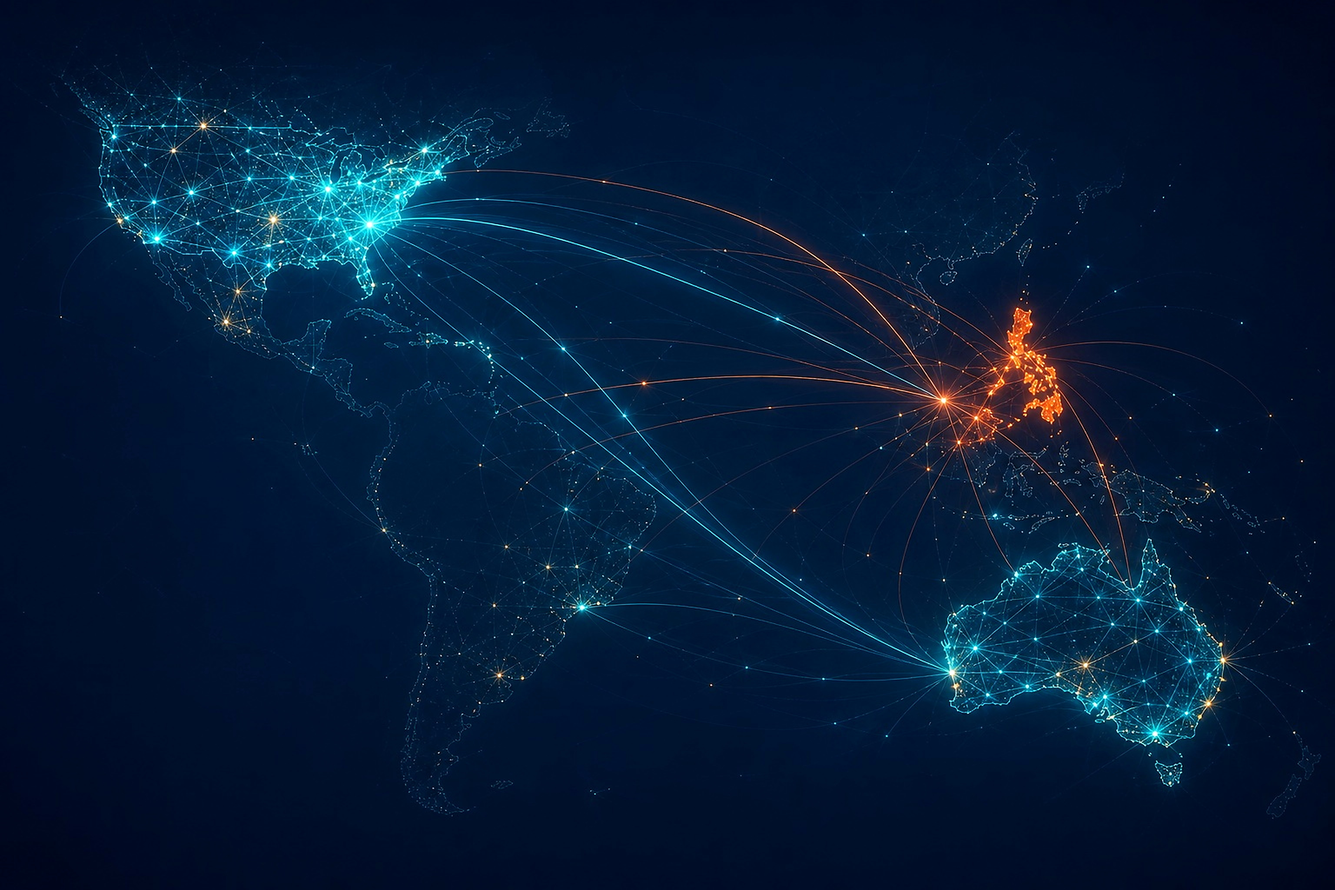
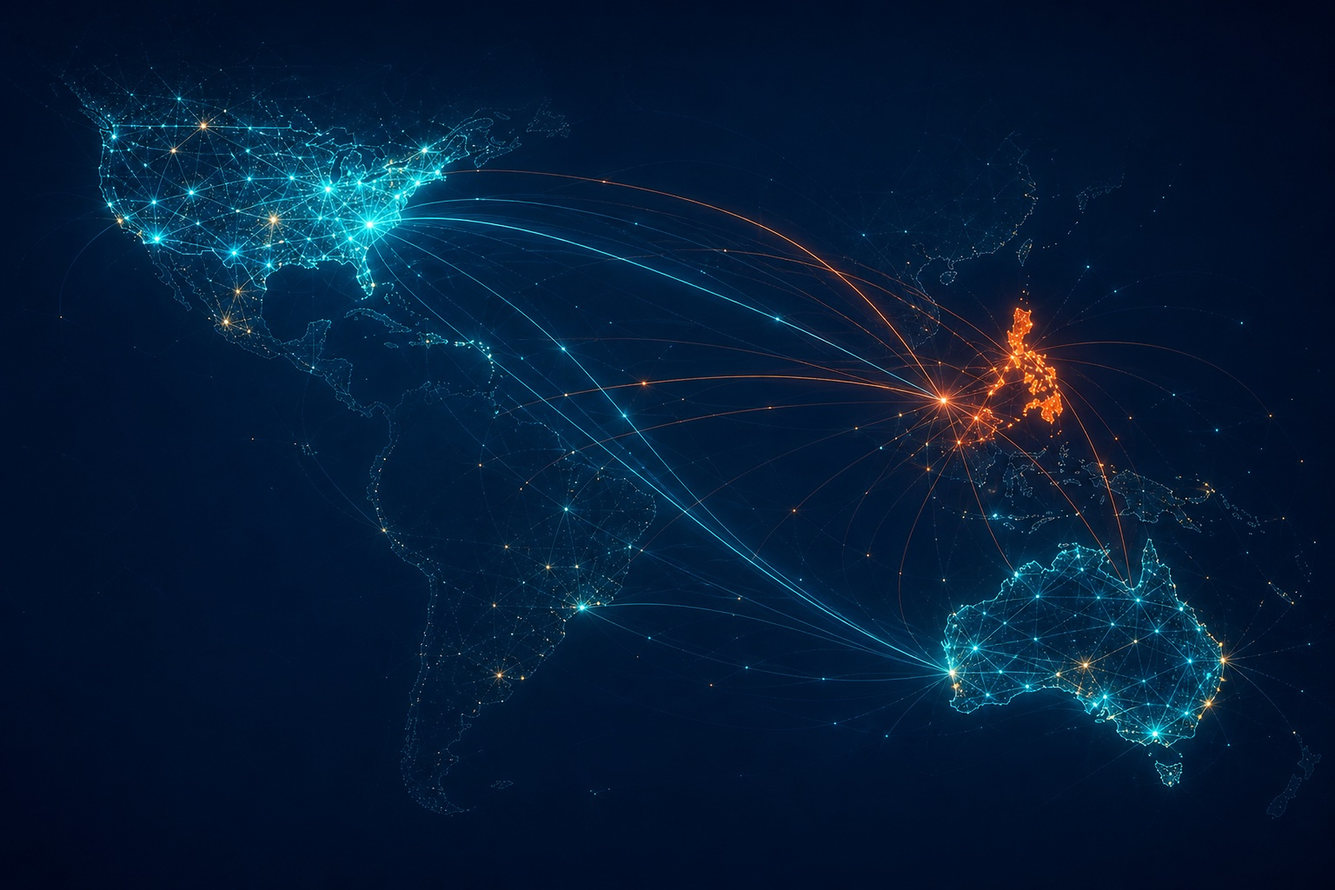
Unify hub map: shared crisp Map B, slight zoom-out.
Services and How it works share one HubMapHero, baseline 3072 Map B, and ~102% cover so framing and sharpness stay consistent.

diff --git a/vision/app/how-it-works/page.tsx b/vision/app/how-it-works/page.tsx
@@ -3,6 +3,7 @@ import Link from "next/link";
 import SiteNav from "../components/SiteNav";
 import SiteFooter from "../components/SiteFooter";
 import MarketGtm from "../components/MarketGtm";
+import HubMapHero from "../components/HubMapHero";
 import { HOW_STEP_ICONS } from "../components/MicroIcons";
 import type { MarketId } from "../../config/markets";
 import type { SiteSurface } from "../../config/site";
@@ -121,46 +122,32 @@ export default async function HowItWorksPage({
       <MarketGtm surface={surface} />
       <SiteNav tone="dark" market={surface} active="how" />
 
-      <header className={`micro-hero micro-hero--map micro-hero--${market}`}>
-        <div className="micro-hero-map" aria-hidden>
-          {/* eslint-disable-next-line @next/next/no-img-element */}
-          <img
-            src="/brand/hero-hub-map-b.jpg"
-            alt=""
-            width={3072}
-            height={2048}
-            decoding="async"
-            fetchPriority="high"
-          />
+      <HubMapHero market={market}>
+        <p className="micro-kicker">
+          {isAu ? "Australia" : "United States"} · Businesses · Philippines talent
+        </p>
+        <h1>
+          {isAu
+            ? "How hiring works for Australian businesses."
+            : "How hiring works with Virtual Coworker."}
+        </h1>
+        <p className="micro-lead">
+          {isAu
+            ? "Four steps. You keep ownership of who joins your team. We recruit, screen, and support dedicated Philippines staff who can work Australian business hours."
+            : "Four steps. You keep ownership of who joins your team. We recruit, screen, and support dedicated Philippines staff for US businesses."}
+        </p>
+        <div className="micro-actions">
+          <Link href={`${home}#gate`} className="micro-btn micro-btn-primary">
+            Start hiring
+          </Link>
+          <Link
+            href={`/services?market=${market}`}
+            className="micro-btn micro-btn-ghost"
+          >
+            Browse roles
+          </Link>
         </div>
-        <div className="micro-hero-veil" aria-hidden />
-        <div className="micro-hero-copy">
-          <p className="micro-kicker">
-            {isAu ? "Australia" : "United States"} · Businesses · Philippines talent
-          </p>
-          <h1>
-            {isAu
-              ? "How hiring works for Australian businesses."
-              : "How hiring works with Virtual Coworker."}
-          </h1>
-          <p className="micro-lead">
-            {isAu
-              ? "Four steps. You keep ownership of who joins your team. We recruit, screen, and support dedicated Philippines staff who can work Australian business hours."
-              : "Four steps. You keep ownership of who joins your team. We recruit, screen, and support dedicated Philippines staff for US businesses."}
-          </p>
-          <div className="micro-actions">
-            <Link href={`${home}#gate`} className="micro-btn micro-btn-primary">
-              Start hiring
-            </Link>
-            <Link
-              href={`/services?market=${market}`}
-              className="micro-btn micro-btn-ghost"
-            >
-              Browse roles
-            </Link>
-          </div>
-        </div>
-      </header>
+      </HubMapHero>
 
       <section className="micro-section">
         <div className="how-steps">

diff --git a/vision/app/services/page.tsx b/vision/app/services/page.tsx
@@ -3,6 +3,7 @@ import Link from "next/link";
 import SiteNav from "../components/SiteNav";
 import SiteFooter from "../components/SiteFooter";
 import MarketGtm from "../components/MarketGtm";
+import HubMapHero from "../components/HubMapHero";
 import { ServiceIcon } from "../components/MicroIcons";
 import { CATEGORY_SLUGS, CATEGORIES } from "../../config/categories";
 import type { MarketId } from "../../config/markets";
@@ -39,46 +40,32 @@ export default async function ServicesPage({
       <MarketGtm surface={surface} />
       <SiteNav tone="dark" market={surface} active="services" />
 
-      <header className={`micro-hero micro-hero--map micro-hero--${market}`}>
-        <div className="micro-hero-map" aria-hidden>
-          {/* eslint-disable-next-line @next/next/no-img-element */}
-          <img
-            src="/brand/hero-hub-map-b.jpg"
-            alt=""
-            width={3072}
-            height={2048}
-            decoding="async"
-            fetchPriority="high"
-          />
+      <HubMapHero market={market}>
+        <p className="micro-kicker">
+          Roles · {market === "au" ? "Australia" : "United States"} · Businesses
+        </p>
+        <h1>
+          {market === "au"
+            ? "Roles Australian businesses hire through us."
+            : "Roles US businesses hire through us."}
+        </h1>
+        <p className="micro-lead">
+          Pick the seat you need filled. Every page is for{" "}
+          {market === "au" ? "Australian" : "US"} businesses hiring dedicated
+          Philippines staff — job seekers are pointed to careers instead.
+        </p>
+        <div className="micro-actions">
+          <Link href={`${home}#gate`} className="micro-btn micro-btn-primary">
+            Start hiring
+          </Link>
+          <Link
+            href={`/how-it-works?market=${market}`}
+            className="micro-btn micro-btn-ghost"
+          >
+            How it works
+          </Link>
         </div>
-        <div className="micro-hero-veil" aria-hidden />
-        <div className="micro-hero-copy">
-          <p className="micro-kicker">
-            Roles · {market === "au" ? "Australia" : "United States"} · Businesses
-          </p>
-          <h1>
-            {market === "au"
-              ? "Roles Australian businesses hire through us."
-              : "Roles US businesses hire through us."}
-          </h1>
-          <p className="micro-lead">
-            Pick the seat you need filled. Every page is for{" "}
-            {market === "au" ? "Australian" : "US"} businesses hiring dedicated
-            Philippines staff — job seekers are pointed to careers instead.
-          </p>
-          <div className="micro-actions">
-            <Link href={`${home}#gate`} className="micro-btn micro-btn-primary">
-              Start hiring
-            </Link>
-            <Link
-              href={`/how-it-works?market=${market}`}
-              className="micro-btn micro-btn-ghost"
-            >
-              How it works
-            </Link>
-          </div>
-        </div>
-      </header>
+      </HubMapHero>
 
       <section className="micro-section">
         <div className="services-grid">

diff --git a/vision/app/globals.css b/vision/app/globals.css
@@ -2115,8 +2115,8 @@ a.gate-call:hover {
 .micro-hero--map {
   position: relative;
   max-width: none;
-  /* Mid-size: between prior zoom-crop cover and tiny contain */
-  min-height: clamp(20.5rem, 50vw, 30rem);
+  /* Slightly taller stage + ~102% cover = a touch more map, less crop */
+  min-height: clamp(21.5rem, 52vw, 32rem);
   padding: clamp(2.75rem, 7vw, 5rem) var(--shell) clamp(2rem, 4vw, 3rem);
   overflow: hidden;
   isolation: isolate;
@@ -2144,10 +2144,10 @@ a.gate-call:hover {
   mask-composite: intersect;
 }
 
-/* Gentle cover: fills stage without extreme continent crop */
+/* Near-full cover — zoomed out from prior 108% mid-crop */
 .micro-hero-map img {
-  width: 108%;
-  height: 108%;
+  width: 102%;
+  height: 102%;
   max-width: none;
   object-fit: cover;
   object-position: center 48%;
@@ -2158,6 +2158,7 @@ a.gate-call:hover {
   -webkit-backface-visibility: hidden;
   backface-visibility: hidden;
   transform: translateZ(0);
+  filter: none;
 }
 
 /* Mild market framing — halfway from center vs prior hard crops */
@@ -2252,12 +2253,12 @@ a.gate-call:hover {
 
 @media (max-width: 700px) {
   .micro-hero--map {
-    min-height: clamp(17.5rem, 76vw, 23rem);
+    min-height: clamp(18.5rem, 78vw, 24rem);
   }
 
   .micro-hero-map img {
-    width: 112%;
-    height: 112%;
+    width: 104%;
+    height: 104%;
   }
 
   .micro-hero--us .micro-hero-map img {

diff --git a/vision/app/components/HubMapHero.tsx b/vision/app/components/HubMapHero.tsx
@@ -1,0 +1,30 @@
+import type { MarketId } from "../../config/markets";
+import type { ReactNode } from "react";
+
+/** Crisp Hub Map B — shared by Services + How it works so framing stays identical. */
+const HUB_MAP_SRC = "/brand/hero-hub-map-b.jpg?v=3";
+
+type Props = {
+  market: MarketId;
+  children: ReactNode;
+};
+
+export default function HubMapHero({ market, children }: Props) {
+  return (
+    <header className={`micro-hero micro-hero--map micro-hero--${market}`}>
+      <div className="micro-hero-map" aria-hidden>
+        {/* eslint-disable-next-line @next/next/no-img-element */}
+        <img
+          src={HUB_MAP_SRC}
+          alt=""
+          width={3072}
+          height={2048}
+          decoding="async"
+          fetchPriority="high"
+        />
+      </div>
+      <div className="micro-hero-veil" aria-hidden />
+      <div className="micro-hero-copy">{children}</div>
+    </header>
+  );
+}
